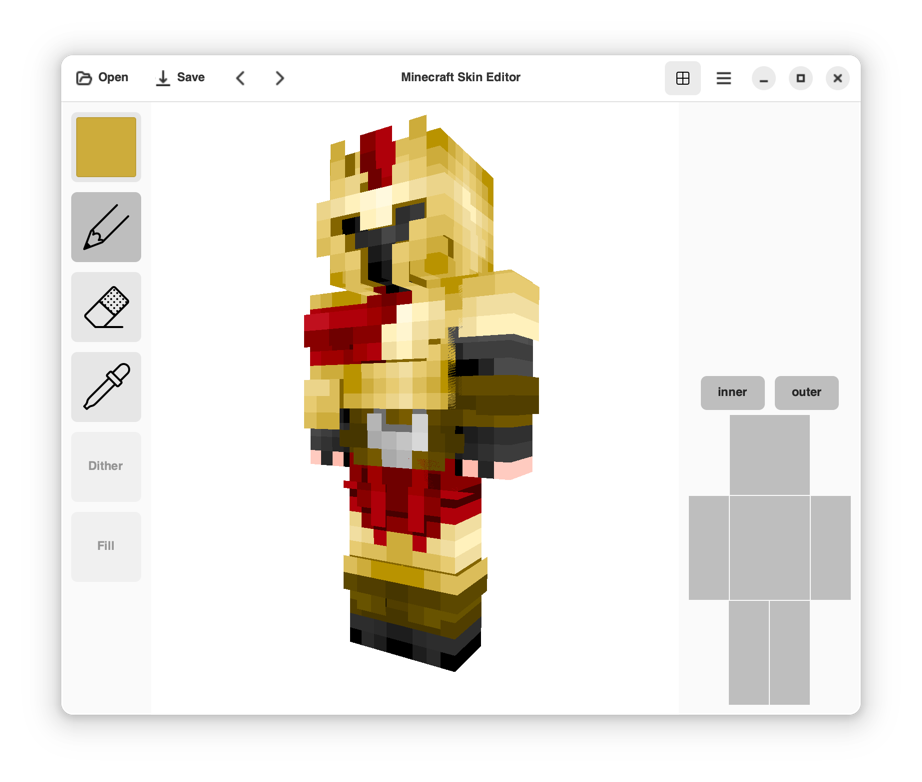
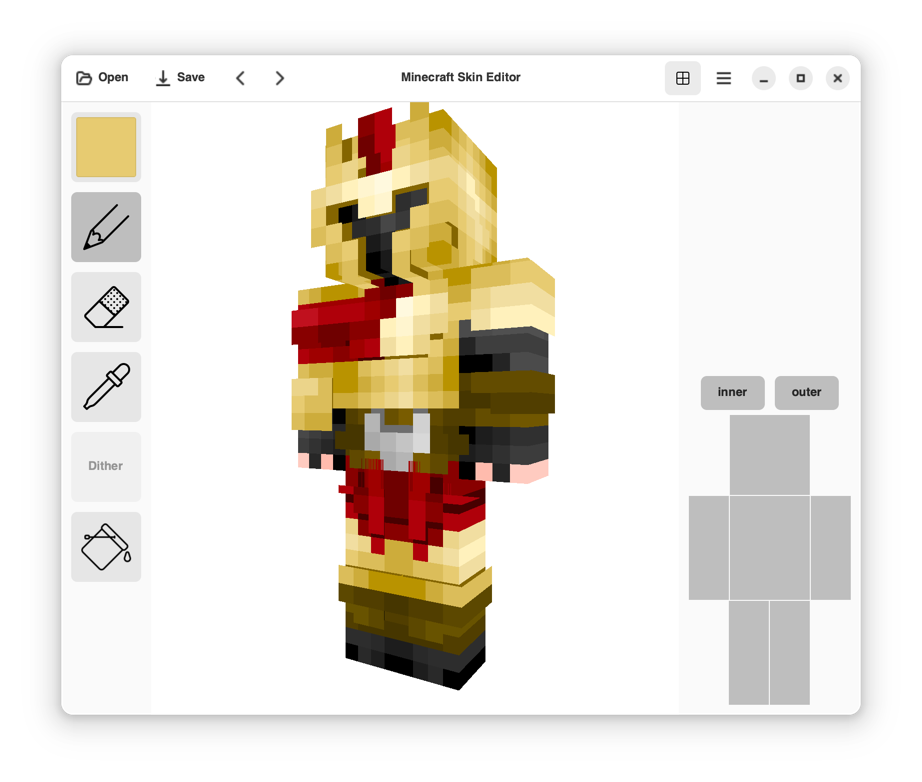
add Fill tool

Changed region(s): [[0.3037, 0.1228, 0.6074, 0.89], [0.0607, 0.1228, 0.1518, 0.2455], [0.0911, 0.6752, 0.1518, 0.7366]]

diff --git a/src/window/mod.rs b/src/window/mod.rs
@@ -15,7 +15,9 @@ use libadwaita as adw;
 use Tool::*;
 
 use crate::application::Application;
+use crate::glium_area::body_part::BodyPart;
 use crate::glium_area::body_part::BodyPart::*;
+use crate::glium_area::cube_side::CubeSide;
 use crate::glium_area::GliumArea;
 use crate::glium_area::hover_state::HoverState;
 use crate::glium_area::renderer::ModelCell;
@@ -74,7 +76,48 @@ impl Pencil {
         }
     }
 }
+struct Fill {
+    body_part: BodyPart,
+    fill_color: [f32; 4],
+    prev_colors: Vec<ModelCell>
+}
+impl Command for Fill {
+    fn execute(&self, gl_area: &GliumArea) {
+        let renderer = gl_area.renderer().unwrap();
+        let mut renderer = renderer.borrow_mut();
 
+        for cell in &self.prev_colors {
+            let new_cell = ModelCell {
+                body_part: cell.body_part.clone(),
+                cell_index: cell.cell_index,
+                color: self.fill_color,
+            };
+            renderer.set_cell(&new_cell);
+        }
+
+        gl_area.queue_draw();
+    }
+
+    fn undo(&self, gl_area: &GliumArea) {
+        let renderer = gl_area.renderer().unwrap();
+        let mut renderer = renderer.borrow_mut();
+
+        for cell in &self.prev_colors {
+            renderer.set_cell(cell);
+        }
+
+        gl_area.queue_draw();
+    }
+}
+impl Fill {
+    pub fn new(body_part: &BodyPart, fill_color: &[f32; 4], prev_colors: Vec<ModelCell>) -> Fill {
+        Fill {
+            body_part: body_part.clone(),
+            fill_color: fill_color.clone(),
+            prev_colors
+        }
+    }
+}
 
 glib::wrapper! {
     pub struct Window(ObjectSubclass<imp::Window>)
@@ -104,14 +147,17 @@ impl Window {
         let rubber_ico = gtk::Image::from_resource("/io/redgradient/MCSkinEditor/media/eraser.png");
         let color_picker_ico = gtk::Image::from_resource("/io/redgradient/MCSkinEditor/media/color_picker.png");
         let grid_ico = gtk::Image::from_resource("/io/redgradient/MCSkinEditor/media/grid.png");
+        let fill_ico = gtk::Image::from_resource("/io/redgradient/MCSkinEditor/media/fill.png");
         self.imp().pencil.set_child(Some(&pencil_ico));
         self.imp().rubber.set_child(Some(&rubber_ico));
         self.imp().color_picker.set_child(Some(&color_picker_ico));
         self.imp().grid_toggle.set_child(Some(&grid_ico));
+        self.imp().fill.set_child(Some(&fill_ico));
 
         self.imp().pencil.connect_toggled(clone!(@weak self as win => move |btn| { win.imp().current_tool.replace(Tool::Pencil); }));
         self.imp().rubber.connect_toggled(clone!(@weak self as win => move |btn| { win.imp().current_tool.replace(Tool::Rubber); }));
         self.imp().color_picker.connect_toggled(clone!(@weak self as win => move |btn| { win.imp().current_tool.replace(Tool::ColorPicker); }));
+        self.imp().fill.connect_toggled(clone!(@weak self as win => move |btn| { win.imp().current_tool.replace(Tool::Fill); }));
 
         self.imp().grid_toggle.connect_toggled(
             clone!(@weak self as win => move |btn| {
@@ -362,7 +408,7 @@ impl Window {
             });
         });
     }
-    
+
     fn connect_gl_area(&self) {
         // --- CALCULATE FPS ---
         let frame_count = Rc::new(Cell::new(0));
@@ -427,7 +473,17 @@ impl Window {
                                 win.imp().pencil.set_active(true);
                             }
                         }
-                        _ => unimplemented!("This tool is unimplemented yet"),
+                        Fill => {
+                            let cells = renderer.borrow().get_side_cells(&cell.body_part, cell.cell_index).unwrap();
+
+                            let rgba = win.imp().color_button.rgba();
+                            let new_color: [f32; 4] = [rgba.red(), rgba.green(), rgba.blue(), rgba.alpha()];
+
+                            let command = Fill::new(&cell.body_part, &new_color, cells);
+                            command.execute(gl_area);
+                            win.imp().drawing_history.borrow_mut().add_command(Box::new(command));
+                        }
+                        _ => unimplemented!("This tool is not implemented yet"),
                     }
                     renderer.borrow_mut().set_mouse_hover(Some(HoverState::OnModel));
                 } else {

diff --git a/src/glium_area/renderer.rs b/src/glium_area/renderer.rs
@@ -3,6 +3,7 @@ use std::collections::{BTreeMap, BTreeSet};
 use std::fs::File;
 use std::hash::Hash;
 use std::io::Read;
+use std::ops::Range;
 use std::rc::Rc;
 
 use glium::{Frame, Program, Surface};
@@ -14,6 +15,7 @@ use nalgebra_glm::Mat4;
 use crate::glium_area::body_part::BodyPart;
 use crate::glium_area::body_part::BodyPart::*;
 use crate::glium_area::camera::Camera;
+use crate::glium_area::cube_side::CubeSide;
 use crate::glium_area::hover_state::HoverState;
 use crate::glium_area::model::{arm_fn, body_fn, head_fn};
 use crate::glium_area::model::arm_fn::{cuboid_3x12x4, cuboid_4x12x4, grid_3x12x4, grid_4x12x4};
@@ -21,7 +23,10 @@ use crate::glium_area::model_object::{ModelIndexType, ModelObject};
 use crate::glium_area::mouse_move::MouseMove;
 use crate::glium_area::ray::Ray;
 use crate::glium_area::skin_parser::{ModelType, SkinParser};
+use crate::glium_area::vertex::Vertex;
+use CubeSide::*;
 
+#[derive(Debug)]
 pub struct ModelCell {
     pub body_part: BodyPart,
     pub cell_index: usize,
@@ -44,6 +49,8 @@ pub struct Renderer {
 
     grid: bool,
     grid_objects: BTreeMap<BodyPart, ModelObject>,
+
+    model_type: ModelType
 }
 
 
@@ -313,6 +320,8 @@ impl Renderer {
 
             grid: true,
             grid_objects,
+
+            model_type: ModelType::Classic
         }
     }
 
@@ -389,6 +398,8 @@ impl Renderer {
         self.grid_objects.insert(BodyPart::LeftArm, left_arm_grid);
         self.grid_objects.insert(BodyPart::RightArmOuter, right_arm_grid_outer);
         self.grid_objects.insert(BodyPart::LeftArmOuter, left_arm_grid_outer);
+
+        self.model_type = model_type.clone();
     }
 
     pub fn set_grid_show(&mut self, show: bool) {
@@ -575,7 +586,45 @@ impl Renderer {
             }
         }
     }
-    
+
+    pub fn get_side_cells(&self, body_part: &BodyPart, cell_index: usize) -> Option<Vec<ModelCell>> {
+
+        let cell_count_per_side: [usize; 6] = match body_part {
+            Head | HeadOuter => [64, 64, 64, 64, 64, 64],
+            Torso | TorsoOuter => [96, 48, 96, 48, 32, 32],
+            RightArm | LeftArm | RightArmOuter | LeftArmOuter => match self.model_type {
+                ModelType::Slim => [36, 48, 36, 48, 12, 12],
+                ModelType::Classic => [48, 48, 48, 48, 16, 16]
+            },
+            RightLeg | LeftLeg | RightLegOuter | LeftLegOuter => [48, 48, 48, 48, 16, 16]
+        };
+
+        if cell_index >= cell_count_per_side.iter().sum() {
+            return None;
+        }
+
+        let mut range: Option<Range<usize>> = None;
+
+        let mut start = 0;
+        for count in cell_count_per_side {
+            let end = start + count;
+            if (start..end).contains(&cell_index) {
+                range.replace((start..end));
+            }
+            start = end;
+        }
+
+        let vertices: Vec<Vertex> = self.model_objects.get(&body_part)?.get_vertexes();
+
+        let result: Vec<ModelCell> = range?.map(|index| ModelCell {
+            body_part: body_part.clone(),
+            cell_index: index,
+            color: vertices[index * 4].color,
+        }).collect();
+
+        Some(result)
+    }
+
     pub fn export_texture(&self) -> ImageBuffer<Rgba<u8>, Vec<u8>> {
         let width = 64;
         let height = 64;

diff --git a/src/glium_area/cube_side.rs b/src/glium_area/cube_side.rs
@@ -1,4 +1,5 @@
 use std::hash::Hash;
+use CubeSide::*;
 
 #[derive(Debug, PartialEq, Eq, Copy, Clone, Hash, PartialOrd, Ord)]
 pub enum CubeSide {
@@ -8,13 +9,6 @@ pub enum CubeSide {
     Right,
     Top,
     Bottom,
-
-    // Left,
-    // Right,
-    // Top,
-    // Bottom,
-    // Back,
-    // Front,
 }
 
 
@@ -26,3 +20,19 @@ pub const SIDES: [CubeSide; 6] = [
     CubeSide::Top,
     CubeSide::Bottom,
 ];
+
+impl TryFrom<usize> for CubeSide {
+    type Error = ();
+
+    fn try_from(value: usize) -> Result<Self, Self::Error> {
+        match value {
+            0 => Ok(Front),
+            1 => Ok(Left),
+            2 => Ok(Back),
+            3 => Ok(Right),
+            4 => Ok(Top),
+            5 => Ok(Bottom),
+            _ => Err(())
+        }
+    }
+}

diff --git a/src/glium_area/model_object.rs b/src/glium_area/model_object.rs
@@ -136,17 +136,6 @@ impl ModelObject {
                 cell += 1;
             }
         }
-
-        // TEST specific SIDE
-        // let sides = [CubeSide::Front, CubeSide::Left, CubeSide::Back, CubeSide::Right, CubeSide::Top, CubeSide::Bottom];
-        // for side in sides {
-        //     for pixel in color_map.get(&side).unwrap() {
-        //         let pixel_f32 = ModelObject::u8_to_f32_pixel(pixel);
-        //         self.paint(cell, pixel_f32);
-        //         cell += 1;
-        //     }
-        // }
-
     }
 
     pub fn get_pixel(&self, cell: usize) -> [f32; 4] {

diff --git a/src/window/imp.rs b/src/window/imp.rs
@@ -78,6 +78,8 @@ pub struct Window {
     #[template_child]
     pub color_picker: TemplateChild<gtk::ToggleButton>,
     #[template_child]
+    pub fill: TemplateChild<gtk::ToggleButton>,
+    #[template_child]
     pub gl_area: TemplateChild<GliumArea>,
     #[template_child]
     pub model_switcher: TemplateChild<ModelSwitcher>,

diff --git a/src/glium_area/skin_parser.rs b/src/glium_area/skin_parser.rs
@@ -49,6 +49,7 @@ const VEC_IN_CELL: usize = 4;
 
 type ColorMap = HashMap<BodyPart, BTreeMap<CubeSide, Vec<Rgba<u8>>>>;
 
+#[derive(Copy, Clone)]
 pub enum ModelType {
     Classic,
     Slim

diff --git a/src/glium_area/mod.rs b/src/glium_area/mod.rs
@@ -24,7 +24,7 @@ pub mod hover_state;
 mod mouse_move;
 pub mod body_part;
 mod cross_info;
-mod cube_side;
+pub mod cube_side;
 pub mod skin_dialog;
 
 glib::wrapper! {
